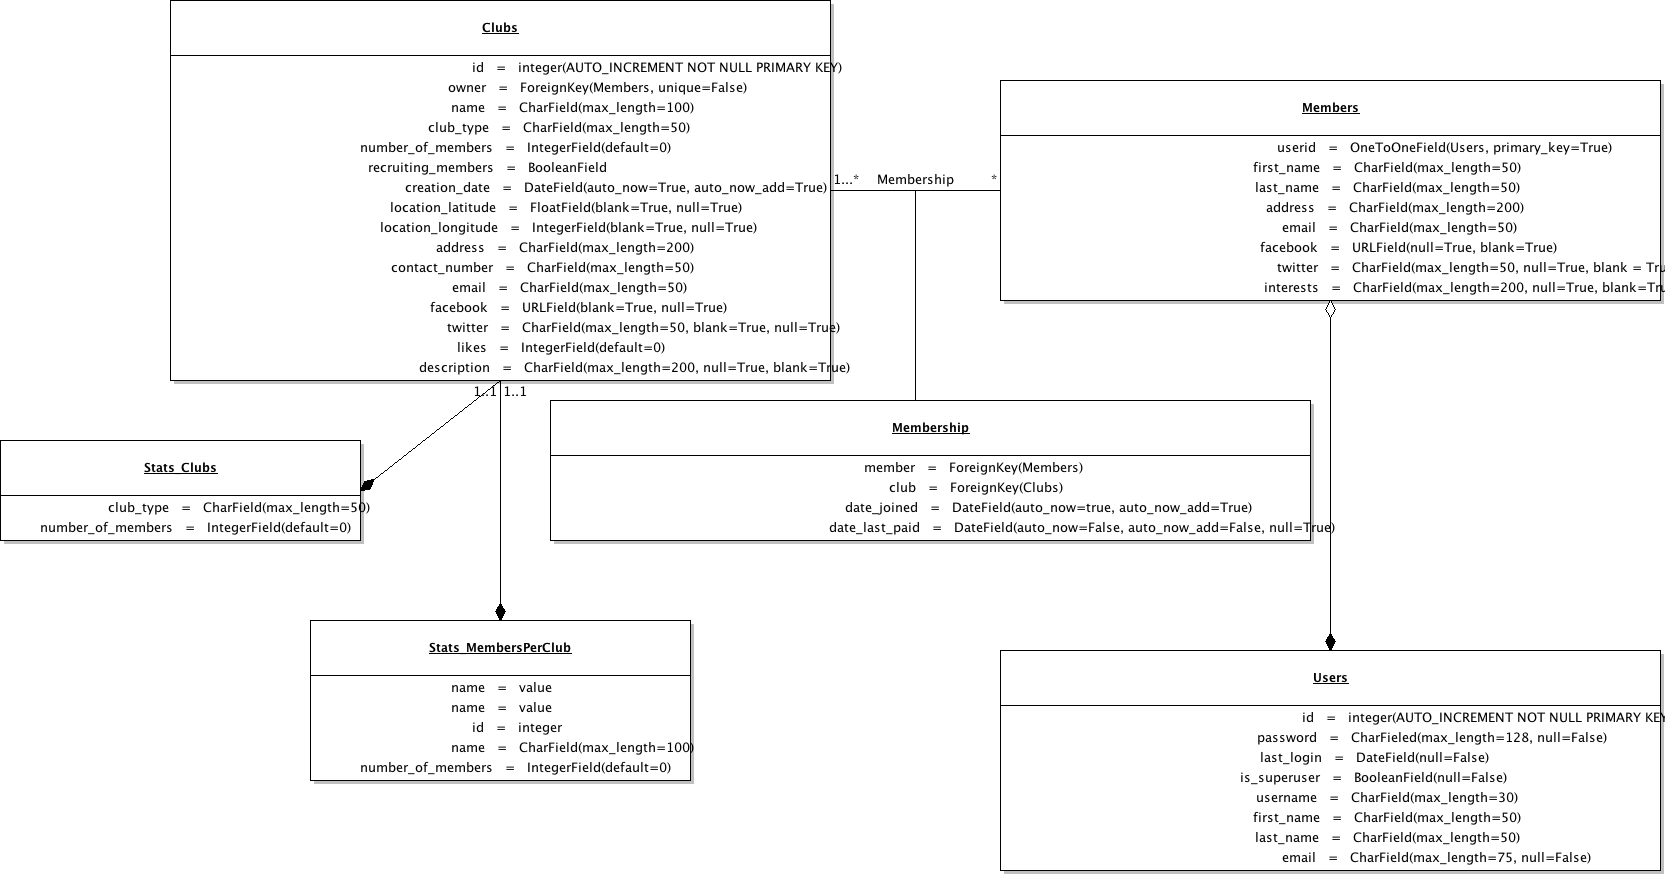
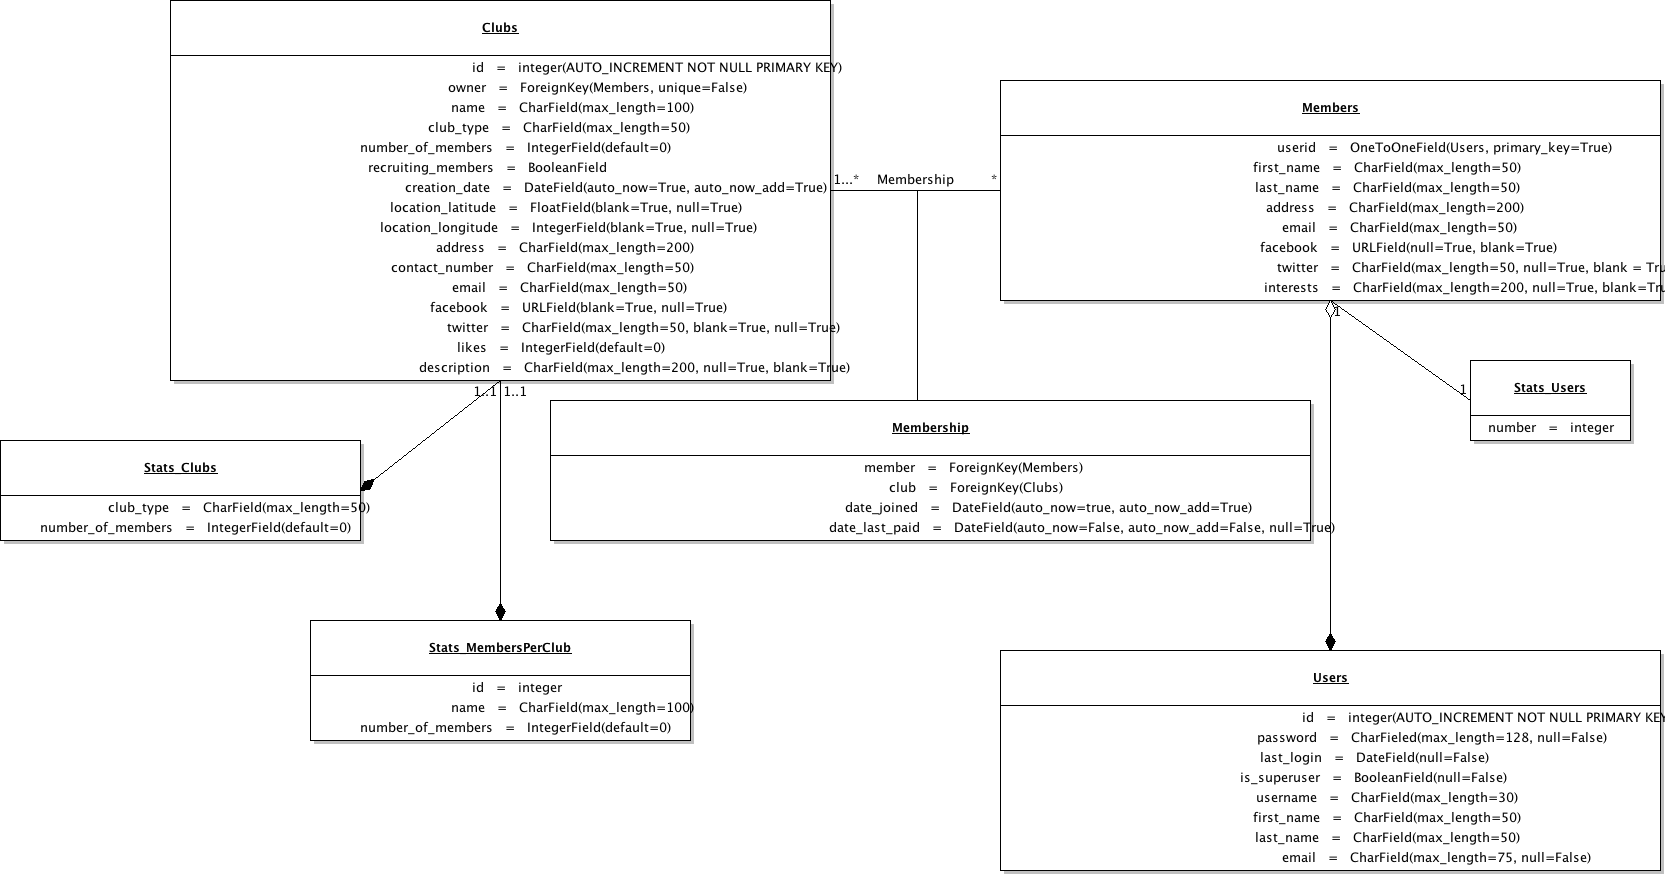
Spruced up login and register, and Updated UML

Changed region(s): [[0.1874, 0.7714, 0.4372, 0.8949], [0.8745, 0.432, 0.9682, 0.5246]]

diff --git a/clubs/templates/login.html b/clubs/templates/login.html
@@ -6,10 +6,18 @@
 	{% endif %}
 
 	<form action="/accounts/auth/" method="post"> {% csrf_token %}
-		<label for="username">Username:</label>
-		<input type="text" name="username" value="" id="username">
-		<label for="password">Password:</label>
-		<input type="password" name="password" value="" id="password">
-		<input type="submit" value="Login"/>
-     </form>
+		<ul style="list-style: none; margin-left: 0px; padding: 0px">
+			<li>
+				<label for="username">Username:</label>
+				<input type="text" name="username" value="" id="username">
+			</li>
+			<li>
+				<label for="password">Password:</label>
+				<input type="password" name="password" value="" id="password">	
+			</li>
+			<li>
+				<input type="submit" value="Login"/>				
+			</li>
+		</ul>
+    </form>
 {% endblock %}

diff --git a/clubs/templates/register.html b/clubs/templates/register.html
@@ -3,8 +3,9 @@
 
 	<h2>Register</h2>
 	<form action="/accounts/register/" method="post">{% csrf_token %}
-	{{form}}
-	
+			<ul style="list-style: none; margin-left: 0px; padding: 0px">
+				<li>{{ form.as_ul }}</li>
+			</ul>
 	<p>
 	<input type="submit" value="Register" />
 	</p>
